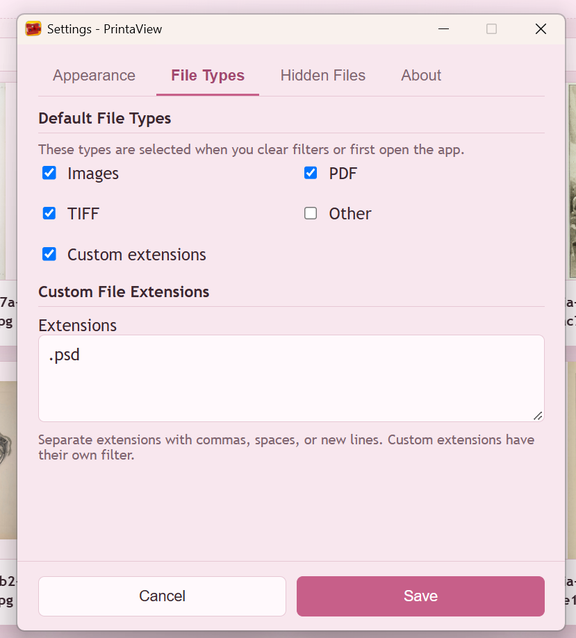
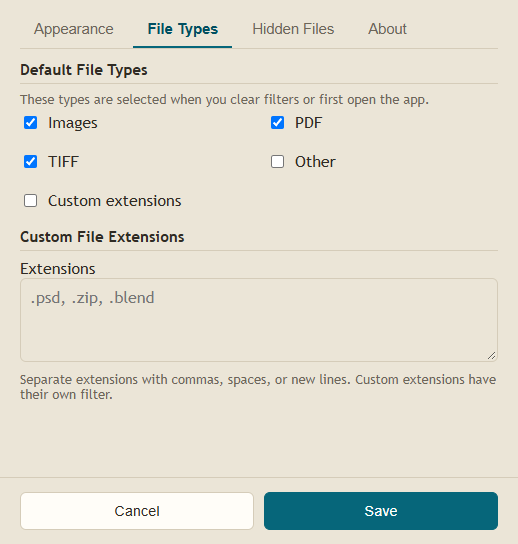
feat: add terminal theme and refresh screenshots

Changed region(s): [[0.0, 0.0, 1.0, 1.0]]

diff --git a/scripts/capture-screenshots.js b/scripts/capture-screenshots.js
@@ -1,0 +1,205 @@
+const fs = require('fs');
+const os = require('os');
+const path = require('path');
+const { _electron: electron } = require('playwright');
+
+const imagesDirectory = path.join(__dirname, '..', 'images');
+const screenshotFiles = [
+  ['app-without-details.png', 'app1.png'],
+  ['app-with-details.png', 'app2.png'],
+  ['right-click-menu.png', 'right-click.png'],
+  ['settings-appearance.png', 'settings1.png'],
+  ['settings-file-types.png', 'settings2.png'],
+  ['settings-hidden-files.png', 'settings3.png'],
+  ['settings-about.png', 'settings4.png']
+];
+
+function getDemoFolder() {
+  const configuredFolder = process.argv[2] || process.env.PRINTAVIEW_SCREENSHOT_FOLDER;
+  if (configuredFolder) return path.resolve(configuredFolder);
+  return path.join(imagesDirectory, 'staging');
+}
+
+async function waitForItems(window) {
+  await window.locator('#downloads-path').waitFor({ state: 'visible' });
+  await window.waitForFunction(() => {
+    const loadingState = document.querySelector('#loading-state');
+    return document.querySelectorAll('#grid .card').length > 0 &&
+      loadingState?.hidden === true;
+  });
+}
+
+async function waitForScreenshotReady(window) {
+  await window.waitForFunction(() => {
+    const cards = Array.from(document.querySelectorAll('#grid .card')).filter((card) => {
+      const bounds = card.getBoundingClientRect();
+      return bounds.width > 0 && bounds.height > 0 &&
+        bounds.bottom > 0 && bounds.right > 0 &&
+        bounds.top < window.innerHeight && bounds.left < window.innerWidth;
+    });
+    const images = Array.from(document.querySelectorAll('#grid .preview img, #detail-preview img'))
+      .filter((image) => {
+        const bounds = image.getBoundingClientRect();
+        return bounds.width > 0 && bounds.height > 0 &&
+          bounds.bottom > 0 && bounds.right > 0 &&
+          bounds.top < window.innerHeight && bounds.left < window.innerWidth;
+      });
+
+    const activeAnimations = document.getAnimations()
+      .some((animation) => animation.playState === 'running');
+
+    return cards.length > 0 &&
+      cards.every((card) => Number(getComputedStyle(card).opacity) >= 0.999) &&
+      images.length > 0 &&
+      images.every((image) =>
+        image.complete &&
+        image.naturalWidth > 0 &&
+        Number(getComputedStyle(image).opacity) >= 0.999
+      ) &&
+      !activeAnimations;
+  }, null, { timeout: 60000, polling: 100 });
+
+  await window.evaluate(async () => {
+    const images = Array.from(document.querySelectorAll('#grid .preview img, #detail-preview img'))
+      .filter((image) => {
+        const bounds = image.getBoundingClientRect();
+        return bounds.width > 0 && bounds.height > 0 &&
+          bounds.bottom > 0 && bounds.right > 0 &&
+          bounds.top < window.innerHeight && bounds.left < window.innerWidth;
+      });
+    await Promise.all(images.map((image) => image.decode()));
+  });
+  await window.waitForTimeout(500);
+}
+
+async function saveScreenshot(window, stagingDirectory, name, screenshotOptions = {}) {
+  const screenshot = await window.screenshot({
+    animations: 'disabled',
+    ...screenshotOptions
+  });
+  const outputPath = path.join(stagingDirectory, name);
+  fs.writeFileSync(outputPath, screenshot);
+  const width = screenshot.readUInt32BE(16);
+  const height = screenshot.readUInt32BE(20);
+  console.log(`${name}: ${width}x${height} px`);
+}
+
+async function saveRightClickScreenshot(window, stagingDirectory) {
+  const actionIcons = window.locator('.card-actions').first();
+  const contextMenu = window.locator('#context-menu');
+  await actionIcons.waitFor({ state: 'visible' });
+
+  const [iconsBounds, menuBounds, viewport] = await Promise.all([
+    actionIcons.boundingBox(),
+    contextMenu.boundingBox(),
+    window.evaluate(() => ({ width: innerWidth, height: innerHeight }))
+  ]);
+  if (!iconsBounds || !menuBounds) {
+    throw new Error('Could not measure the right-click menu and action icons.');
+  }
+
+  const padding = 25;
+  const left = Math.max(0, Math.floor(Math.min(iconsBounds.x, menuBounds.x) - padding));
+  const top = Math.max(0, Math.floor(Math.min(iconsBounds.y, menuBounds.y) - padding));
+  const right = Math.min(
+    viewport.width,
+    Math.ceil(Math.max(iconsBounds.x + iconsBounds.width, menuBounds.x + menuBounds.width) + padding)
+  );
+  const bottom = Math.min(
+    viewport.height,
+    Math.ceil(Math.max(iconsBounds.y + iconsBounds.height, menuBounds.y + menuBounds.height) + padding)
+  );
+
+  await saveScreenshot(window, stagingDirectory, 'right-click-menu.png', {
+    clip: { x: left, y: top, width: right - left, height: bottom - top }
+  });
+}
+
+async function captureScreenshots() {
+  const demoFolder = getDemoFolder();
+  if (!fs.statSync(demoFolder).isDirectory()) {
+    throw new Error(`Demo folder is not a directory: ${demoFolder}`);
+  }
+
+  const stagingDirectory = fs.mkdtempSync(path.join(imagesDirectory, '.screenshots-'));
+  const dataDirectory = fs.mkdtempSync(path.join(os.tmpdir(), 'printaview-screenshots-'));
+  const settingsPath = path.join(dataDirectory, 'printaview-settings.json');
+  fs.writeFileSync(settingsPath, JSON.stringify({
+    customRootFolder: demoFolder,
+    showDetailsPane: true,
+    showHidden: false,
+    panePosition: 'right',
+    detailsPaneWidth: 320,
+    sortBy: 'name',
+    favoritesFilter: 'all',
+    filters: null,
+    defaultFileTypes: ['image', 'pdf', 'tiff'],
+    customExtensions: [],
+    theme: 'default'
+  }, null, 2));
+
+  let app;
+  try {
+    app = await electron.launch({
+      executablePath: require('electron'),
+      args: ['--headless', '.'],
+      env: { ...process.env, PRINTAVIEW_DATA_DIR: dataDirectory }
+    });
+
+    const mainWindow = await app.firstWindow();
+    const cards = mainWindow.locator('#grid .card');
+    await waitForItems(mainWindow);
+    const displayedFolder = await mainWindow.locator('#downloads-path').textContent();
+    if (path.resolve(displayedFolder) !== path.resolve(demoFolder)) {
+      throw new Error(`PrintaView opened ${displayedFolder} instead of ${demoFolder}.`);
+    }
+
+    await waitForScreenshotReady(mainWindow);
+    await saveScreenshot(mainWindow, stagingDirectory, 'app-with-details.png');
+
+    await mainWindow.locator('#toggle-details-pane-button').click();
+    await mainWindow.locator('#details-pane').waitFor({ state: 'hidden' });
+    await waitForScreenshotReady(mainWindow);
+    await saveScreenshot(mainWindow, stagingDirectory, 'app-without-details.png');
+
+    await mainWindow.locator('#toggle-details-pane-button').click();
+    await mainWindow.locator('#details-pane').waitFor({ state: 'visible' });
+    await waitForScreenshotReady(mainWindow);
+    await cards.first().click({ button: 'right', position: { x: 90, y: 80 } });
+    await mainWindow.locator('#context-menu').waitFor({ state: 'visible' });
+    await saveRightClickScreenshot(mainWindow, stagingDirectory);
+
+    const settingsWindowPromise = app.waitForEvent('window');
+    await mainWindow.locator('#view-menu-button').click();
+    const settingsWindow = await settingsWindowPromise;
+    await settingsWindow.locator('#display-panel').waitFor({ state: 'visible' });
+    await saveScreenshot(settingsWindow, stagingDirectory, 'settings-appearance.png');
+
+    for (const [tabName, panelId, screenshotName] of [
+      ['File Types', 'file-types-panel', 'settings-file-types.png'],
+      ['Hidden Files', 'hidden-files-panel', 'settings-hidden-files.png'],
+      ['About', 'about-panel', 'settings-about.png']
+    ]) {
+      await settingsWindow.getByRole('tab', { name: tabName }).click();
+      await settingsWindow.locator(`#${panelId}`).waitFor({ state: 'visible' });
+      await saveScreenshot(settingsWindow, stagingDirectory, screenshotName);
+    }
+
+    for (const [stagedName, targetName] of screenshotFiles) {
+      fs.copyFileSync(
+        path.join(stagingDirectory, stagedName),
+        path.join(imagesDirectory, targetName)
+      );
+    }
+    console.log(`Updated ${screenshotFiles.length} screenshots in images/`);
+  } finally {
+    if (app) await app.close();
+    fs.rmSync(dataDirectory, { recursive: true, force: true });
+    fs.rmSync(stagingDirectory, { recursive: true, force: true });
+  }
+}
+
+captureScreenshots().catch((error) => {
+  console.error('Screenshot capture failed:', error);
+  process.exitCode = 1;
+});

diff --git a/test/e2e/electron.smoke.spec.js b/test/e2e/electron.smoke.spec.js
@@ -216,6 +216,45 @@ test('dark theme can be selected and persists across windows', async () => {
   }
 });
 
+test('terminal theme applies terminal styling and persists across windows', async () => {
+  const fixtureRoot = setupFixtureRoot(
+    fs.mkdtempSync(path.join(os.tmpdir(), 'printaview-smoke-files-'))
+  );
+  const { electronApp, cleanup } = await launchIsolatedApp(fixtureRoot);
+
+  try {
+    const mainWindow = await electronApp.firstWindow();
+    const settingsWindowPromise = electronApp.waitForEvent('window');
+    await mainWindow.locator('#view-menu-button').click();
+    const settingsWindow = await settingsWindowPromise;
+    const terminalThemeOption = settingsWindow.locator('input[name="theme"][value="terminal"]');
+
+    await terminalThemeOption.check();
+    await expect(settingsWindow.locator('html')).toHaveAttribute('data-theme', 'terminal');
+    await expect(settingsWindow.locator('html')).toHaveCSS('color-scheme', 'dark');
+    await expect(settingsWindow.locator('.theme-swatch.terminal')).toBeVisible();
+    await Promise.all([
+      settingsWindow.waitForEvent('close'),
+      settingsWindow.locator('#save-btn').click()
+    ]);
+
+    await expect(mainWindow.locator('html')).toHaveAttribute('data-theme', 'terminal');
+    await expect(mainWindow.locator('html')).toHaveCSS('color-scheme', 'dark');
+    await expect(mainWindow.locator('#grid .card').first()).toBeVisible();
+    expect(await mainWindow.locator('#grid .card .title').first().evaluate((title) =>
+      getComputedStyle(title).fontFamily)).toContain('Cascadia Code');
+
+    const reopenedSettingsPromise = electronApp.waitForEvent('window');
+    await mainWindow.locator('#view-menu-button').click();
+    const reopenedSettings = await reopenedSettingsPromise;
+    await expect(reopenedSettings.locator('input[name="theme"][value="terminal"]')).toBeChecked();
+    await reopenedSettings.close();
+  } finally {
+    await cleanup();
+    fs.rmSync(fixtureRoot, { recursive: true, force: true });
+  }
+});
+
 test('sort and filter dropdown popovers stay anchored without shifting the toolbar', async () => {
   const fixtureRoot = setupFixtureRoot(
     fs.mkdtempSync(path.join(os.tmpdir(), 'printaview-smoke-files-'))

diff --git a/src/renderer/styles.css b/src/renderer/styles.css
@@ -87,6 +87,38 @@
   --warning: #ffc078;
 }
 
+:root[data-theme='terminal'] {
+  color-scheme: dark;
+  --bg: #101510;
+  --panel: #192019;
+  --surface: #222a22;
+  --ink: #d4e4d0;
+  --ink-soft: #91a58d;
+  --accent: #347f45;
+  --accent-strong: #91d789;
+  --line: #354236;
+  --shadow: 0 10px 25px rgba(0, 0, 0, 0.4);
+  --bg-grad-1: #1d2b1d;
+  --bg-grad-2: #172219;
+  --bg-grad-base-start: #131a14;
+  --bg-grad-base-end: #0c110d;
+  --toolbar-bg: rgba(25, 32, 25, 0.94);
+  --path-row-bg: rgba(25, 32, 25, 0.78);
+  --focus-shadow: 0 0 0 2px rgba(120, 200, 117, 0.3);
+  --card-hover-shadow: 0 12px 28px rgba(0, 0, 0, 0.48);
+  --action-shadow: 0 2px 8px rgba(0, 0, 0, 0.4);
+  --context-shadow: 0 4px 16px rgba(0, 0, 0, 0.5);
+  --danger: #ff958c;
+  --danger-bg: #482b28;
+  --warning: #f0c879;
+}
+
+:root[data-theme='terminal'] .title,
+:root[data-theme='terminal'] .path-value,
+:root[data-theme='terminal'] .detail-value.path {
+  font-family: "Cascadia Code", "Cascadia Mono", Consolas, monospace;
+}
+
 * {
   box-sizing: border-box;
 }

diff --git a/src/renderer/settings.html b/src/renderer/settings.html
@@ -164,6 +164,10 @@
         background: linear-gradient(160deg, #292f39 0%, #15191f 100%);
         border-color: rgba(255, 255, 255, 0.2);
       }
+      .theme-swatch.terminal {
+        background: linear-gradient(160deg, #1d2b1d 0%, #0c110d 100%);
+        border-color: rgba(145, 215, 137, 0.4);
+      }
       .pane-position-toggle {
         display: flex;
         gap: 8px;
@@ -361,6 +365,11 @@
                 <input type="radio" name="theme" value="dark" />
                 <span class="theme-label">Dark</span>
                 <span class="theme-swatch dark" aria-hidden="true"></span>
+              </label>
+              <label class="theme-option">
+                <input type="radio" name="theme" value="terminal" />
+                <span class="theme-label">Terminal</span>
+                <span class="theme-swatch terminal" aria-hidden="true"></span>
               </label>
             </div>
           </div>

diff --git a/src/main.js b/src/main.js
@@ -246,7 +246,7 @@ function loadSettings() {
     const parsed = JSON.parse(raw);
     const allowedSort = new Set(['recent', 'oldest', 'name', 'type']);
     const allowedFavoritesFilter = new Set(['all', 'favorites']);
-    const allowedThemes = new Set(['default', 'pastel-pink', 'baby-blue', 'dark']);
+    const allowedThemes = new Set(['default', 'pastel-pink', 'baby-blue', 'dark', 'terminal']);
     return {
       showDetailsPane: parsed.showDetailsPane !== false,
       showHidden: parsed.showHidden === true,

diff --git a/README.md b/README.md
@@ -2,21 +2,34 @@
 
 PrintaView is a standalone Windows desktop app for browsing and previewing files from your Downloads folder in one unified view (including all sub-folders).
 
-![App](./images/app1.png)
-![App](./images/app2.png)
+![Main application with the file details pane hidden](./images/app1.png)
+![Main application with the file details pane](./images/app2.png)
 
-*Main application view with and without details pane
+*Main application view with and without the details pane*
 
-![Right-click Menu](./images/right-click.png)
+![File right-click context menu](./images/right-click.png)
 
 *Right-click context menu with hide and favourite actions*
 
-![Settings](./images/settings1.png)
-![Settings](./images/settings2.png)
-![Settings](./images/settings3.png)
-![Settings](./images/settings4.png)
+![Appearance settings tab](./images/settings1.png)
+![File Types settings tab](./images/settings2.png)
+![Hidden Files settings tab](./images/settings3.png)
+![About settings tab](./images/settings4.png)
 
-*Settings window tabs*
+*The four settings tabs*
+
+Refresh these screenshots from the bundled sample images in `images/staging/` with:
+
+```sh
+npm run screenshots
+```
+
+To use a different demo folder, pass its path:
+
+```sh
+npm run screenshots -- "path/to/PrintaView Demo Images"
+```
+
 
 ## Features
 
